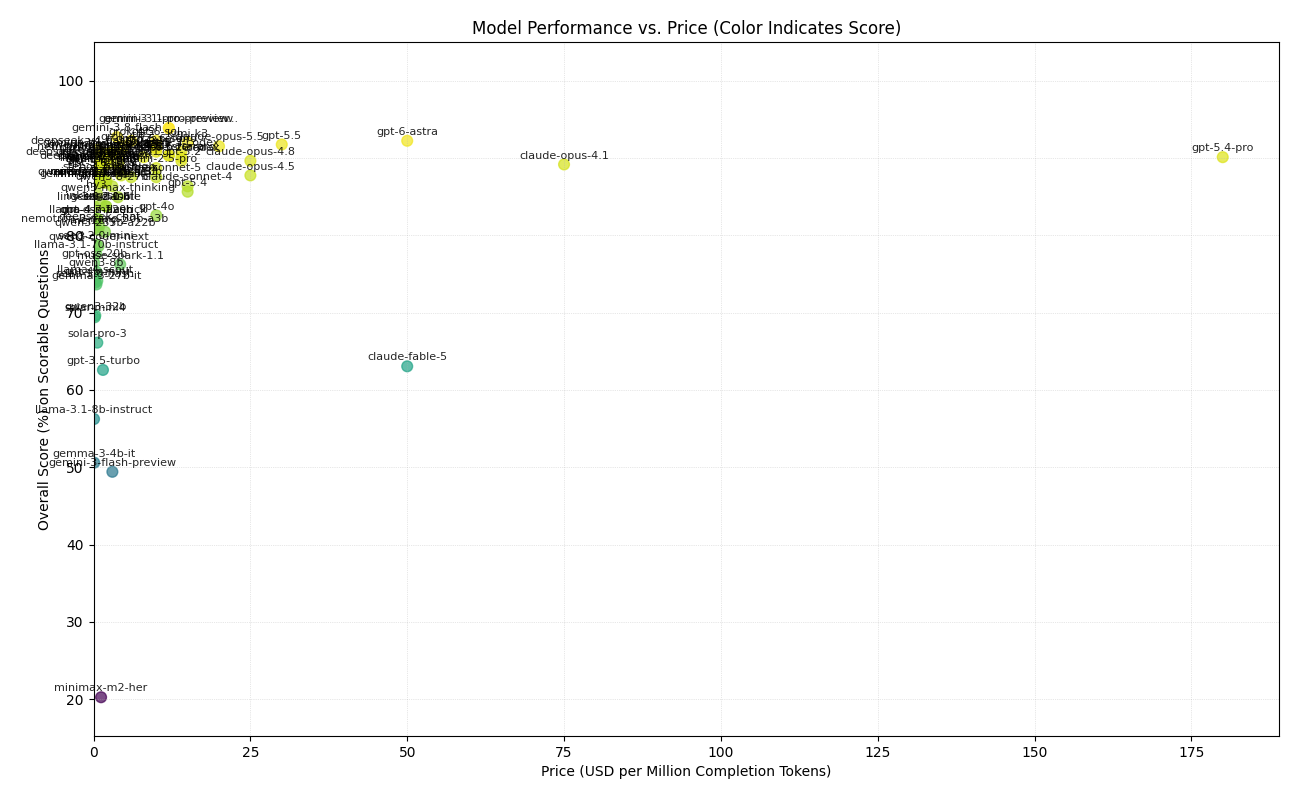
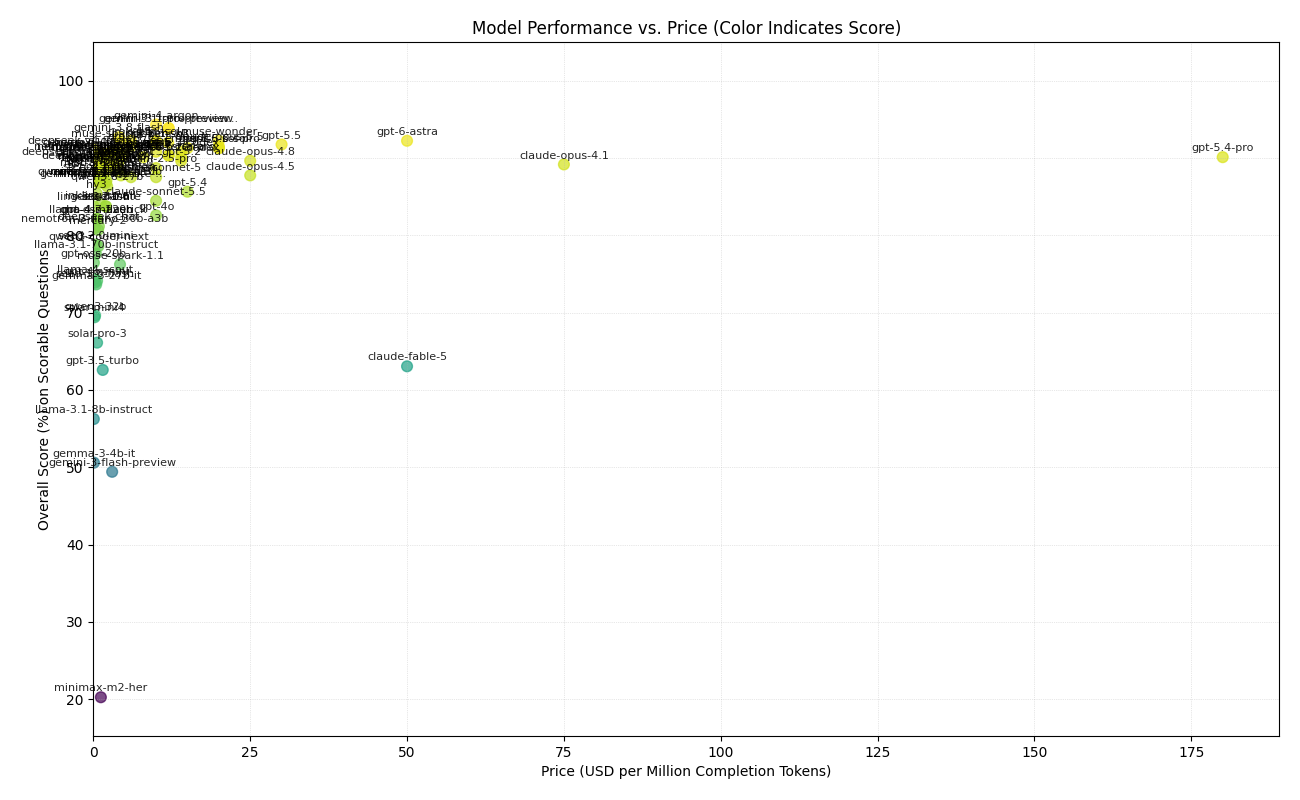
Add October 2026 benchmark results (Gemini 4 Argon, GPT-6.1 Sol, Muse Wonder, Muse Spark Open, Ember-1, Beam 1.0, Nemotron 3.5 Super VL, Haiku 5.5, Mistral Large 4, Sonnet 5.5)

Changed region(s): [[0.0, 0.125, 0.2154, 0.3438], [0.0615, 0.4375, 0.0923, 0.4688], [0.0615, 0.375, 0.0923, 0.4062]]

diff --git a/config.py b/config.py
@@ -118,6 +118,107 @@ ASSISTANT_PROMPT = "Correct answer_options key:" # For models supporting assista
 
 MODELS_TO_RUN = [
 
+    # ========== LATEST SOTA (October 2026) ==========
+
+    {
+        "id": "google/gemini-4-argon",
+        "provider": "openai_compatible",
+        "api_key_env": "OPENROUTER_API_KEY",
+        "base_url": "https://openrouter.ai/api/v1",
+        "model_name_api": "google/gemini-4-argon",
+        "access": "proprietary",
+        "max_tokens": 4000,
+        # Rejects requests ending with a model turn (400)
+        "assistant_prompt": None,
+    },
+    {
+        "id": "openai/gpt-6.1-sol",
+        "provider": "openai_compatible",
+        "api_key_env": "OPENROUTER_API_KEY",
+        "base_url": "https://openrouter.ai/api/v1",
+        "model_name_api": "openai/gpt-6.1-sol",
+        "access": "proprietary",
+        "max_tokens": 4000,
+    },
+    {
+        "id": "anthropic/claude-sonnet-5.5",
+        "provider": "openai_compatible",
+        "api_key_env": "OPENROUTER_API_KEY",
+        "base_url": "https://openrouter.ai/api/v1",
+        "model_name_api": "anthropic/claude-sonnet-5.5",
+        "access": "proprietary",
+        "max_tokens": 4000,
+        # Rejects assistant message prefill (400)
+        "assistant_prompt": None,
+    },
+    {
+        "id": "meta/muse-wonder",
+        "provider": "openai_compatible",
+        "api_key_env": "OPENROUTER_API_KEY",
+        "base_url": "https://openrouter.ai/api/v1",
+        "model_name_api": "meta/muse-wonder",
+        "access": "proprietary",
+        "max_tokens": 4000,
+    },
+    {
+        "id": "fireworks/ember-1",
+        "provider": "openai_compatible",
+        "api_key_env": "OPENROUTER_API_KEY",
+        "base_url": "https://openrouter.ai/api/v1",
+        "model_name_api": "fireworks/ember-1",
+        "access": "proprietary",
+        "max_tokens": 4000,
+    },
+    {
+        "id": "mistralai/mistral-large-4-0",
+        "provider": "openai_compatible",
+        "api_key_env": "OPENROUTER_API_KEY",
+        "base_url": "https://openrouter.ai/api/v1",
+        "model_name_api": "mistralai/mistral-large-4-0",
+        "access": "proprietary",
+        "max_tokens": 12000,
+        # Prefill causes model to echo "Correct answer_options key: X\n\nX"
+        "assistant_prompt": None,
+    },
+    {
+        "id": "meta/muse-spark-open",
+        "provider": "openai_compatible",
+        "api_key_env": "OPENROUTER_API_KEY",
+        "base_url": "https://openrouter.ai/api/v1",
+        "model_name_api": "meta/muse-spark-open",
+        "access": "open source",
+        "max_tokens": 4000,
+    },
+    {
+        "id": "reflection/beam-1.0-501b-a23b",
+        "provider": "openai_compatible",
+        "api_key_env": "OPENROUTER_API_KEY",
+        "base_url": "https://openrouter.ai/api/v1",
+        "model_name_api": "reflection/beam-1.0-501b-a23b",
+        "access": "open source",
+        "max_tokens": 4000,
+    },
+    {
+        "id": "nvidia/nemotron-3.5-super-vl",
+        "provider": "openai_compatible",
+        "api_key_env": "OPENROUTER_API_KEY",
+        "base_url": "https://openrouter.ai/api/v1",
+        "model_name_api": "nvidia/nemotron-3.5-super-vl",
+        "access": "open source",
+        "max_tokens": 12000,
+    },
+    {
+        "id": "anthropic/claude-haiku-5.5",
+        "provider": "openai_compatible",
+        "api_key_env": "OPENROUTER_API_KEY",
+        "base_url": "https://openrouter.ai/api/v1",
+        "model_name_api": "anthropic/claude-haiku-5.5",
+        "access": "proprietary",
+        "max_tokens": 4000,
+        # Rejects assistant message prefill (400)
+        "assistant_prompt": None,
+    },
+
     # ========== LATEST SOTA (September 2026) ==========
 
     {

diff --git a/benchmark_runner.py b/benchmark_runner.py
@@ -80,6 +80,19 @@ def _encode_image_data_url(image_rel_path, base_dir):
     mime_type, _ = mimetypes.guess_type(str(image_path))
     if not mime_type or not mime_type.startswith("image/"):
         mime_type = "image/jpeg"
+    try:
+        from PIL import Image
+        import io
+        with Image.open(io.BytesIO(raw)) as im:
+            if max(im.size) > 4096:
+                im = im.convert("RGB")
+                im.thumbnail((4096, 4096), Image.Resampling.LANCZOS)
+                buf = io.BytesIO()
+                im.save(buf, format="JPEG", quality=92)
+                raw = buf.getvalue()
+                mime_type = "image/jpeg"
+    except Exception:
+        pass
     encoded = base64.b64encode(raw).decode("ascii")
     return f"data:{mime_type};base64,{encoded}"
 

diff --git a/README.md b/README.md
@@ -16,54 +16,63 @@
 
 | Model Name                                | Overall Score | Access      | Date Tested | Price ($/Mtok) | Community Questions Fbn | Crop Management | Image Disease | Image Pest | Image Weed | Nutrient Management | Pest Management | Soil And Water | V1 Benchmark Questions |
 |------------------------------------------|---------------|------------|-------------|----------------|-------------------------|-----------------|---------------|------------|------------|---------------------|-----------------|----------------|------------------------|
+| google/gemini-4-argon                     |         94.35% | Proprietary | 2026-10-16  |    $10.0000    |                   92.0% |           94.1% |         82.0% |      62.0% |      84.0% |               97.7% |           95.2% |          97.5% |                  89.5% | (401/425)
 | google/gemini-3.1-pro-preview-customtools |         93.88% | Proprietary | 2026-07-09  |    $12.0000    |                   92.0% |           94.1% |         72.0% |      68.0% |      82.0% |               95.3% |           95.2% |          95.0% |                  91.4% | (399/425)
 | google/gemini-3.1-pro-preview             |         93.88% | Proprietary | 2026-07-09  |    $12.0000    |                   96.0% |           94.1% |         72.0% |      66.0% |      84.0% |               95.3% |           93.5% |          93.8% |                  92.4% | (399/425)
-| google/gemini-3.8-flash                   |         92.71% | Proprietary | 2026-09-23  |    $3.7500     |                   96.0% |           91.2% |         72.0% |      74.0% |      94.0% |               95.3% |           93.5% |          95.0% |                  88.6% | (394/425)
+| google/gemini-3.8-flash                   |         92.71% | Proprietary | 2026-09-23  |    $4.1250     |                   96.0% |           91.2% |         72.0% |      74.0% |      94.0% |               95.3% |           93.5% |          95.0% |                  88.6% | (394/425)
+| meta/muse-wonder                          |         92.24% | Proprietary | 2026-10-16  |    $20.0000    |                   92.0% |           91.2% |         60.0% |      76.0% |      80.0% |               95.3% |           90.3% |          95.0% |                  89.5% | (392/425)
 | openai/gpt-6-astra                        |         92.24% | Proprietary | 2026-09-23  |    $50.0000    |                   96.0% |           89.7% |         64.0% |      60.0% |      66.0% |               95.3% |           93.5% |          95.0% |                  87.6% | (392/425)
 | openai/gpt-6-sol                          |         92.24% | Proprietary | 2026-09-23  |    $10.0000    |                   96.0% |           91.2% |         62.0% |      60.0% |      68.0% |               95.3% |           90.3% |          93.8% |                  89.5% | (392/425)
 | x-ai/grok-4.5                             |         92.24% | Proprietary | 2026-07-09  |    $6.0000     |                   92.0% |           94.1% |         54.0% |      62.0% |      76.0% |               92.9% |           90.3% |          96.2% |                  88.6% | (392/425)
-| moonshotai/kimi-k3                        |         92.00% | Open Source | 2026-07-16  |    $15.0000    |                   96.0% |           92.7% |         62.0% |      66.0% |      80.0% |               91.8% |           90.3% |          92.5% |                  91.4% | (391/425)
+| meta/muse-spark-open                      |         92.00% | Open Source | 2026-10-16  |    $4.2500     |                   92.0% |           91.2% |         66.0% |      64.0% |      66.0% |               92.9% |           93.5% |          96.2% |                  87.6% | (391/425)
+| moonshotai/kimi-k3                        |         92.00% | Open Source | 2026-07-16  |    $11.9360    |                   96.0% |           92.7% |         62.0% |      66.0% |      80.0% |               91.8% |           90.3% |          92.5% |                  91.4% | (391/425)
+| openai/gpt-6.1-sol                        |         92.00% | Proprietary | 2026-10-16  |    $10.0000    |                   96.0% |           91.2% |         66.0% |      64.0% |      74.0% |               94.1% |           93.5% |          93.8% |                  87.6% | (391/425)
 | openai/gpt-5.5                            |         91.76% | Proprietary | 2026-07-09  |    $30.0000    |                   92.0% |           91.2% |         58.0% |      60.0% |      74.0% |               95.3% |           91.9% |          95.0% |                  86.7% | (390/425)
 | anthropic/claude-opus-5.5                 |         91.53% | Proprietary | 2026-09-23  |    $20.0000    |                   96.0% |           91.2% |         70.0% |      72.0% |      74.0% |               95.3% |           91.9% |          93.8% |                  85.7% | (389/425)
-| x-ai/grok-4.7                             |         91.53% | Proprietary | 2026-09-23  |    $4.8000     |                   92.0% |           89.7% |         58.0% |      64.0% |      76.0% |               94.1% |           93.5% |          95.0% |                  86.7% | (389/425)
-| openai/gpt-5.6-sol-pro                    |         91.29% | Proprietary | 2026-07-09  |    $10.0000    |                   96.0% |           92.7% |         66.0% |      62.0% |      70.0% |               94.1% |           87.1% |          93.8% |                  87.6% | (388/425)
-| openai/gpt-5.6-sol                        |         91.29% | Proprietary | 2026-07-09  |    $10.0000    |                   92.0% |           92.7% |         66.0% |      58.0% |      66.0% |               95.3% |           87.1% |          92.5% |                  88.6% | (388/425)
-| deepseek/deepseek-v4-flash-0731           |         91.06% | Open Source | 2026-08-01  |    $0.6400     |                   88.0% |           91.2% |      N/A      |    N/A     |    N/A     |               94.1% |           90.3% |          93.8% |                  87.6% | (387/425)
+| x-ai/grok-4.7                             |         91.53% | Proprietary | 2026-09-23  |    $6.0000     |                   92.0% |           89.7% |         58.0% |      64.0% |      76.0% |               94.1% |           93.5% |          95.0% |                  86.7% | (389/425)
+| fireworks/ember-1                         |         91.29% | Proprietary | 2026-10-16  |    $15.0000    |                   96.0% |           92.7% |         68.0% |      64.0% |      74.0% |               92.9% |           88.7% |          92.5% |                  88.6% | (388/425)
+| openai/gpt-5.6-sol-pro                    |         91.29% | Proprietary | 2026-07-09  |    $20.0000    |                   96.0% |           92.7% |         66.0% |      62.0% |      70.0% |               94.1% |           87.1% |          93.8% |                  87.6% | (388/425)
+| openai/gpt-5.6-sol                        |         91.29% | Proprietary | 2026-07-09  |    $20.0000    |                   92.0% |           92.7% |         66.0% |      58.0% |      66.0% |               95.3% |           87.1% |          92.5% |                  88.6% | (388/425)
+| deepseek/deepseek-v4-flash-0731           |         91.06% | Open Source | 2026-08-01  |    $0.1400     |                   88.0% |           91.2% |      N/A      |    N/A     |    N/A     |               94.1% |           90.3% |          93.8% |                  87.6% | (387/425)
 | google/gemini-3.1-flash-image-preview     |         90.82% | Proprietary | 2026-07-09  |    $3.0000     |                   92.0% |           89.7% |         68.0% |      64.0% |      90.0% |               92.9% |           90.3% |          92.5% |                  88.6% | (386/425)
 | openai/gpt-5.3-codex                      |         90.82% | Proprietary | 2026-07-09  |    $14.0000    |                   88.0% |           92.7% |         64.0% |      66.0% |      70.0% |               92.9% |           88.7% |          95.0% |                  86.7% | (386/425)
 | openai/gpt-5                              |         90.82% | Proprietary | 2026-07-10  |    $10.0000    |                   88.0% |           91.2% |         68.0% |      68.0% |      72.0% |               92.9% |           88.7% |          92.5% |                  89.5% | (386/425)
+| reflection/beam-1.0-501b-a23b             |         90.82% | Open Source | 2026-10-16  |    $3.0000     |                   88.0% |           92.7% |      N/A      |    N/A     |    N/A     |               92.9% |           88.7% |          92.5% |                  88.6% | (386/425)
 | meta/muse-spark-1.2                       |         90.59% | Proprietary | 2026-08-06  |    $4.2500     |                   92.0% |           91.2% |         66.0% |      70.0% |      74.0% |               91.8% |           90.3% |          93.8% |                  86.7% | (385/425)
 | openai/gpt-5.3-chat                       |         90.59% | Proprietary | 2026-07-09  |      N/A       |                   88.0% |           92.7% |         64.0% |      56.0% |      56.0% |               94.1% |           88.7% |          91.2% |                  87.6% | (385/425)
 | qwen/qwen3.5-plus-02-15                   |         90.59% | Open Source | 2026-07-09  |    $1.5600     |                   80.0% |           91.2% |         64.0% |      52.0% |      74.0% |               94.1% |           93.5% |          91.2% |                  87.6% | (385/425)
 | tencent/hy4-preview                       |         90.59% | Open Source | 2026-09-23  |    $2.5010     |                   92.0% |           91.2% |      N/A      |    N/A     |    N/A     |               89.4% |           88.7% |          92.5% |                  90.5% | (385/425)
 | nvidia/nemotron-3-ultra-550b-a55b         |         90.35% | Open Source | 2026-07-09  |    $2.4000     |                   92.0% |           91.2% |      N/A      |    N/A     |    N/A     |               91.8% |           88.7% |          90.0% |                  89.5% | (384/425)
+| nvidia/nemotron-3.5-super-vl              |         90.35% | Open Source | 2026-10-16  |    $0.4000     |                   84.0% |           92.7% |         50.0% |      44.0% |      60.0% |               91.8% |           91.9% |          91.2% |                  87.6% | (384/425)
 | openai/gpt-5.6-terra-pro                  |         90.35% | Proprietary | 2026-07-09  |    $12.0000    |                   92.0% |           89.7% |         58.0% |      56.0% |      70.0% |               91.8% |           90.3% |          95.0% |                  85.7% | (384/425)
 | openai/gpt-5.6-terra                      |         90.35% | Proprietary | 2026-07-09  |    $12.0000    |                   84.0% |           94.1% |         56.0% |      62.0% |      68.0% |               92.9% |           91.9% |          92.5% |                  84.8% | (384/425)
-| z-ai/glm-5.3                              |         90.35% | Open Source | 2026-09-23  |    $2.6400     |                   88.0% |           91.2% |      N/A      |    N/A     |    N/A     |               90.6% |           88.7% |          92.5% |                  89.5% | (384/425)
+| z-ai/glm-5.3                              |         90.35% | Open Source | 2026-09-23  |    $4.8000     |                   88.0% |           91.2% |      N/A      |    N/A     |    N/A     |               90.6% |           88.7% |          92.5% |                  89.5% | (384/425)
+| anthropic/claude-haiku-5.5                |         90.12% | Proprietary | 2026-10-16  |    $0.5000     |                   84.0% |           88.2% |         68.0% |      64.0% |      60.0% |               92.9% |           90.3% |          92.5% |                  88.6% | (383/425)
 | openai/gpt-5.2-codex                      |         90.12% | Proprietary | 2026-07-09  |    $14.0000    |                   92.0% |           92.7% |         62.0% |      52.0% |      68.0% |               92.9% |           87.1% |          92.5% |                  85.7% | (383/425)
 | openai/gpt-5.4-pro                        |         90.12% | Proprietary | 2026-07-10  |   $180.0000    |                   92.0% |           91.2% |         68.0% |      64.0% |      60.0% |               92.9% |           90.3% |          91.2% |                  85.7% | (383/425)
 | openai/gpt-6-luna                         |         90.12% | Proprietary | 2026-09-23  |    $0.5000     |                   92.0% |           91.2% |         54.0% |      54.0% |      50.0% |               94.1% |           88.7% |          91.2% |                  85.7% | (383/425)
 | openai/o3                                 |         90.12% | Proprietary | 2026-07-09  |    $8.0000     |                   88.0% |           91.2% |         72.0% |      58.0% |      74.0% |               92.9% |           83.9% |          95.0% |                  87.6% | (383/425)
 | z-ai/glm-5.3-flash                        |         90.12% | Open Source | 2026-09-23  |    $0.5000     |                   84.0% |           92.7% |         70.0% |      64.0% |      74.0% |               89.4% |           91.9% |          90.0% |                  89.5% | (383/425)
 | anthropic/claude-opus-4.8                 |         89.65% | Proprietary | 2026-07-09  |    $25.0000    |                   88.0% |           88.2% |         68.0% |      56.0% |      66.0% |               91.8% |           85.5% |          95.0% |                  87.6% | (381/425)
-| deepseek/deepseek-v4-flash-0731-max       |         89.65% | Open Source | 2026-08-01  |    $0.6400     |                   88.0% |           89.7% |      N/A      |    N/A     |    N/A     |               90.6% |           88.7% |          92.5% |                  87.6% | (381/425)
+| deepseek/deepseek-v4-flash-0731-max       |         89.65% | Open Source | 2026-08-01  |    $0.1400     |                   88.0% |           89.7% |      N/A      |    N/A     |    N/A     |               90.6% |           88.7% |          92.5% |                  87.6% | (381/425)
 | openai/gpt-5.2                            |         89.65% | Proprietary | 2026-07-09  |    $14.0000    |                   88.0% |           92.7% |         62.0% |      56.0% |      76.0% |               94.1% |           87.1% |          92.5% |                  83.8% | (381/425)
 | openai/gpt-5.6-luna-pro                   |         89.65% | Proprietary | 2026-07-09  |    $1.2000     |                   80.0% |           92.7% |         62.0% |      60.0% |      74.0% |               92.9% |           87.1% |          93.8% |                  85.7% | (381/425)
-| z-ai/glm-5.2                              |         89.65% | Open Source | 2026-07-10  |    $2.0416     |                   84.0% |           91.2% |      N/A      |    N/A     |    N/A     |               91.8% |           88.7% |          91.2% |                  87.6% | (381/425)
-| z-ai/glm-5                                |         89.65% | Open Source | 2026-07-10  |    $1.9200     |                   96.0% |           89.7% |      N/A      |    N/A     |    N/A     |               90.6% |           90.3% |          91.2% |                  85.7% | (381/425)
+| z-ai/glm-5.2                              |         89.65% | Open Source | 2026-07-10  |    $2.4200     |                   84.0% |           91.2% |      N/A      |    N/A     |    N/A     |               91.8% |           88.7% |          91.2% |                  87.6% | (381/425)
+| z-ai/glm-5                                |         89.65% | Open Source | 2026-07-10  |    $3.2000     |                   96.0% |           89.7% |      N/A      |    N/A     |    N/A     |               90.6% |           90.3% |          91.2% |                  85.7% | (381/425)
 | z-ai/glm-5-turbo                          |         89.41% | Proprietary | 2026-07-10  |    $4.0000     |                   84.0% |           92.7% |      N/A      |    N/A     |    N/A     |               90.6% |           88.7% |          91.2% |                  86.7% | (380/425)
 | z-ai/glm-5.3-flashx                       |         89.41% | Proprietary | 2026-09-23  |    $1.2500     |                   76.0% |           91.2% |         70.0% |      68.0% |      74.0% |               87.1% |           93.5% |          92.5% |                  88.6% | (380/425)
 | anthropic/claude-opus-4.1                 |         89.18% | Proprietary | 2026-07-09  |    $75.0000    |                   84.0% |           88.2% |         54.0% |      56.0% |      46.0% |               91.8% |           91.9% |          91.2% |                  85.7% | (379/425)
-| deepseek/deepseek-v4.1-flash              |         89.18% | Open Source | 2026-09-23  |    $0.4200     |                   76.0% |           91.2% |         62.0% |      70.0% |      60.0% |               90.6% |           87.1% |          91.2% |                  89.5% | (379/425)
-| moonshotai/kimi-k2.5                      |         89.18% | Open Source | 2026-07-09  |    $2.2500     |                   84.0% |           91.2% |         68.0% |      64.0% |      70.0% |               90.6% |           90.3% |          90.0% |                  86.7% | (379/425)
+| deepseek/deepseek-v4.1-flash              |         89.18% | Open Source | 2026-09-23  |    $0.7000     |                   76.0% |           91.2% |         62.0% |      70.0% |      60.0% |               90.6% |           87.1% |          91.2% |                  89.5% | (379/425)
+| moonshotai/kimi-k2.5                      |         89.18% | Open Source | 2026-07-09  |    $2.5000     |                   84.0% |           91.2% |         68.0% |      64.0% |      70.0% |               90.6% |           90.3% |          90.0% |                  86.7% | (379/425)
 | qwen/qwen3.8-flash                        |         89.18% | Open Source | 2026-09-23  |    $0.4700     |                   76.0% |           89.7% |         60.0% |      48.0% |      56.0% |               91.8% |           88.7% |          92.5% |                  87.6% | (379/425)
-| qwen/qwen3.5-27b                          |         88.94% | Open Source | 2026-07-10  |    $1.5600     |                   80.0% |           91.2% |         60.0% |      44.0% |      36.0% |               89.4% |           88.7% |          91.2% |                  87.6% | (378/425)
+| qwen/qwen3.5-27b                          |         88.94% | Open Source | 2026-07-10  |    $2.6000     |                   80.0% |           91.2% |         60.0% |      44.0% |      36.0% |               89.4% |           88.7% |          91.2% |                  87.6% | (378/425)
 | xiaomi/mimo-v2.6-pro                      |         88.94% | Open Source | 2026-09-23  |    $0.8700     |                   84.0% |           91.2% |         58.0% |      46.0% |      46.0% |               89.4% |           87.1% |          92.5% |                  86.7% | (378/425)
 | anthropic/claude-opus-4                   |         88.71% | Proprietary | 2026-07-09  |      N/A       |                   84.0% |           89.7% |         48.0% |      56.0% |      48.0% |               89.4% |           90.3% |          91.2% |                  85.7% | (377/425)
 | google/gemini-2.5-pro                     |         88.71% | Proprietary | 2026-07-09  |    $10.0000    |                   84.0% |           91.2% |         60.0% |      68.0% |      80.0% |               87.1% |           88.7% |          91.2% |                  87.6% | (377/425)
 | minimax/minimax-m3                        |         88.71% | Open Source | 2026-07-10  |    $1.2000     |                   88.0% |           89.7% |         56.0% |      52.0% |      48.0% |               89.4% |           87.1% |          93.8% |                  84.8% | (377/425)
 | qwen/qwen3.7-plus                         |         88.71% | Open Source | 2026-07-09  |    $1.2800     |                   76.0% |           92.7% |         68.0% |      56.0% |      66.0% |               90.6% |           88.7% |          88.8% |                  87.6% | (377/425)
 | thinkingmachines/inkling                  |         88.47% | Open Source | 2026-07-17  |    $4.0500     |                   92.0% |           89.7% |         46.0% |      54.0% |      42.0% |               88.2% |           90.3% |          90.0% |                  84.8% | (376/425)
+| mistralai/mistral-large-4-0               |         88.24% | Open Source | 2026-10-16  |    $2.0900     |                   88.0% |           88.2% |         58.0% |      54.0% |      54.0% |               90.6% |           85.5% |          92.5% |                  84.8% | (375/425)
 | openai/gpt-5.6-luna                       |         88.24% | Proprietary | 2026-07-09  |    $1.2000     |                   76.0% |           89.7% |         56.0% |      60.0% |      66.0% |               90.6% |           88.7% |          91.2% |                  85.7% | (375/425)
 | anthropic/claude-opus-4.5                 |         87.76% | Proprietary | 2026-07-09  |    $25.0000    |                   80.0% |           89.7% |         54.0% |      66.0% |      64.0% |               89.4% |           85.5% |          92.5% |                  84.8% | (373/425)
 | openai/o4-mini-high                       |         87.76% | Proprietary | 2026-07-10  |    $4.4000     |                   68.0% |           91.2% |         66.0% |      58.0% |      54.0% |               90.6% |           87.1% |          92.5% |                  84.8% | (373/425)
@@ -76,13 +85,14 @@
 | qwen/qwen3.5-flash-02-23                  |         87.06% | Open Source | 2026-07-09  |    $0.2600     |                   72.0% |           88.2% |         52.0% |      44.0% |      36.0% |               87.1% |           88.7% |          92.5% |                  84.8% | (370/425)
 | xiaomi/mimo-v2.6-flash                    |         87.06% | Open Source | 2026-09-23  |    $0.2800     |                   80.0% |           88.2% |         46.0% |      54.0% |      60.0% |               87.1% |           85.5% |          92.5% |                  84.8% | (370/425)
 | google/gemini-3.1-flash-lite-preview      |         86.82% | Proprietary | 2026-07-09  |    $1.5000     |                   84.0% |           88.2% |         64.0% |      62.0% |      82.0% |               82.3% |           85.5% |          90.0% |                  88.6% | (369/425)
-| minimax/minimax-m2.5                      |         86.82% | Open Source | 2026-07-10  |    $1.0800     |                   68.0% |           86.8% |      N/A      |    N/A     |    N/A     |               90.6% |           87.1% |          95.0% |                  81.9% | (369/425)
+| minimax/minimax-m2.5                      |         86.82% | Open Source | 2026-07-10  |    $0.9500     |                   68.0% |           86.8% |      N/A      |    N/A     |    N/A     |               90.6% |           87.1% |          95.0% |                  81.9% | (369/425)
 | openai/gpt-5-mini                         |         86.82% | Proprietary | 2026-07-10  |    $2.0000     |                   60.0% |           91.2% |         68.0% |      44.0% |      58.0% |               90.6% |           88.7% |          90.0% |                  83.8% | (369/425)
-| anthropic/claude-sonnet-4                 |         86.35% | Proprietary | 2026-07-09  |    $15.0000    |                   80.0% |           86.8% |         44.0% |      54.0% |      28.0% |               88.2% |           88.7% |          87.5% |                  83.8% | (367/425)
-| qwen/qwen3.8-27b                          |         86.35% | Open Source | 2026-08-20  |    $3.0000     |                   60.0% |           88.2% |         52.0% |      46.0% |      48.0% |               87.1% |           87.1% |          91.2% |                  86.7% | (367/425)
+| anthropic/claude-sonnet-4                 |         86.35% | Proprietary | 2026-07-09  |      N/A       |                   80.0% |           86.8% |         44.0% |      54.0% |      28.0% |               88.2% |           88.7% |          87.5% |                  83.8% | (367/425)
+| qwen/qwen3.8-27b                          |         86.35% | Open Source | 2026-08-20  |    $2.2000     |                   60.0% |           88.2% |         52.0% |      46.0% |      48.0% |               87.1% |           87.1% |          91.2% |                  86.7% | (367/425)
 | openai/gpt-5.4                            |         85.65% | Proprietary | 2026-07-09  |    $15.0000    |                   76.0% |           86.8% |         60.0% |      62.0% |      52.0% |               87.1% |           83.9% |          87.5% |                  85.7% | (364/425)
 | tencent/hy3                               |         85.41% | Open Source | 2026-07-10  |    $0.5280     |                   64.0% |           88.2% |      N/A      |    N/A     |    N/A     |               88.2% |           83.9% |          91.2% |                  82.9% | (363/425)
-| qwen/qwen3-max-thinking                   |         84.94% | Open Source | 2026-07-09  |    $3.9000     |                   60.0% |           86.8% |      N/A      |    N/A     |    N/A     |               83.5% |           83.9% |          87.5% |                  89.5% | (361/425)
+| qwen/qwen3-max-thinking                   |         84.94% | Open Source | 2026-07-09  |      N/A       |                   60.0% |           86.8% |      N/A      |    N/A     |    N/A     |               83.5% |           83.9% |          87.5% |                  89.5% | (361/425)
+| anthropic/claude-sonnet-5.5               |         84.47% | Proprietary | 2026-10-16  |    $10.0000    |                   80.0% |           80.9% |         68.0% |      52.0% |      50.0% |               90.6% |           87.1% |          83.8% |                  81.9% | (359/425)
 | thinkingmachines/inkling-small            |         84.00% | Open Source | 2026-07-31  |    $1.2000     |                   80.0% |           88.2% |         38.0% |      50.0% |      34.0% |               84.7% |           83.9% |          85.0% |                  81.0% | (357/425)
 | bytedance-seed/seed-1.6                   |         83.76% | Proprietary | 2026-07-09  |    $2.0000     |                   68.0% |           86.8% |         68.0% |      56.0% |      68.0% |               82.3% |           83.9% |          85.0% |                  85.7% | (356/425)
 | bytedance-seed/seed-2.0-lite              |         83.76% | Proprietary | 2026-07-09  |    $2.0000     |                   68.0% |           83.8% |         50.0% |      58.0% |      62.0% |               83.5% |           83.9% |          90.0% |                  82.9% | (356/425)
@@ -92,15 +102,15 @@
 | openai/gpt-oss-120b                       |         82.12% | Open Source | 2026-07-09  |    $0.6000     |                   52.0% |           86.8% |      N/A      |    N/A     |    N/A     |               82.3% |           87.1% |          85.0% |                  81.0% | (349/425)
 | z-ai/glm-4.7-flash                        |         82.12% | Open Source | 2026-07-10  |    $0.4000     |                   56.0% |           77.9% |      N/A      |    N/A     |    N/A     |               83.5% |           85.5% |          86.2% |                  84.8% | (349/425)
 | deepseek/deepseek-chat                    |         81.18% | Open Source | 2026-07-09  |    $0.8900     |                   60.0% |           82.3% |      N/A      |    N/A     |    N/A     |               81.2% |           83.9% |          83.8% |                  81.9% | (345/425)
-| nvidia/nemotron-3-nano-30b-a3b            |         80.94% | Open Source | 2026-07-09  |    $0.2000     |                   56.0% |           83.8% |      N/A      |    N/A     |    N/A     |               81.2% |           83.9% |          86.2% |                  79.0% | (344/425)
+| nvidia/nemotron-3-nano-30b-a3b            |         80.94% | Open Source | 2026-07-09  |    $0.2400     |                   56.0% |           83.8% |      N/A      |    N/A     |    N/A     |               81.2% |           83.9% |          86.2% |                  79.0% | (344/425)
 | inception/mercury-2                       |         80.71% | Proprietary | 2026-07-09  |    $0.7500     |                   56.0% |           82.3% |      N/A      |    N/A     |    N/A     |               77.7% |           82.3% |          86.2% |                  82.9% | (343/425)
-| qwen/qwen3-235b-a22b                      |         80.47% | Open Source | 2026-07-09  |    $1.8200     |                   72.0% |           79.4% |      N/A      |    N/A     |    N/A     |               78.8% |           80.7% |          78.8% |                  85.7% | (342/425)
+| qwen/qwen3-235b-a22b                      |         80.47% | Open Source | 2026-07-09  |      N/A       |                   72.0% |           79.4% |      N/A      |    N/A     |    N/A     |               78.8% |           80.7% |          78.8% |                  85.7% | (342/425)
 | bytedance-seed/seed-2.0-mini              |         78.82% | Proprietary | 2026-07-09  |    $0.4000     |                   64.0% |           83.8% |         60.0% |      64.0% |      64.0% |               74.1% |           80.7% |          83.8% |                  78.1% | (335/425)
 | qwen/qwen3-coder-next                     |         78.59% | Open Source | 2026-07-09  |    $0.8000     |                   48.0% |           82.3% |      N/A      |    N/A     |    N/A     |               76.5% |           85.5% |          83.8% |                  77.1% | (334/425)
 | meta-llama/llama-3.1-70b-instruct         |         77.65% | Open Source | 2026-07-09  |    $0.4000     |                   64.0% |           80.9% |      N/A      |    N/A     |    N/A     |               74.1% |           82.3% |          80.0% |                  77.1% | (330/425)
 | openai/gpt-oss-20b                        |         76.47% | Open Source | 2026-07-09  |    $0.0900     |                   36.0% |           85.3% |      N/A      |    N/A     |    N/A     |               75.3% |           83.9% |          81.2% |                  73.3% | (325/425)
 | meta/muse-spark-1.1                       |         76.24% | Proprietary | 2026-07-16  |    $4.2500     |                   84.0% |           72.1% |         54.0% |      56.0% |      68.0% |               82.3% |           58.1% |          86.2% |                  75.2% | (324/425)
-| qwen/qwen3-8b                             |         75.29% | Open Source | 2026-07-10  |    $0.4550     |                   44.0% |           79.4% |      N/A      |    N/A     |    N/A     |               72.9% |           79.0% |          81.2% |                  75.2% | (320/425)
+| qwen/qwen3-8b                             |         75.29% | Open Source | 2026-07-10  |      N/A       |                   44.0% |           79.4% |      N/A      |    N/A     |    N/A     |               72.9% |           79.0% |          81.2% |                  75.2% | (320/425)
 | meta-llama/llama-4-scout                  |         74.35% | Open Source | 2026-07-09  |    $0.3000     |                   68.0% |           72.1% |         38.0% |      46.0% |      32.0% |               71.8% |           72.6% |          82.5% |                  74.3% | (316/425)
 | openai/gpt-4o-mini                        |         74.12% | Proprietary | 2026-07-09  |    $0.6000     |                   56.0% |           75.0% |         48.0% |      40.0% |      30.0% |               65.9% |           75.8% |          86.2% |                  74.3% | (315/425)
 | bytedance-seed/seed-1.6-flash             |         73.88% | Proprietary | 2026-07-09  |    $0.3000     |                   40.0% |           75.0% |         60.0% |      64.0% |      60.0% |               74.1% |           79.0% |          77.5% |                  75.2% | (314/425)
